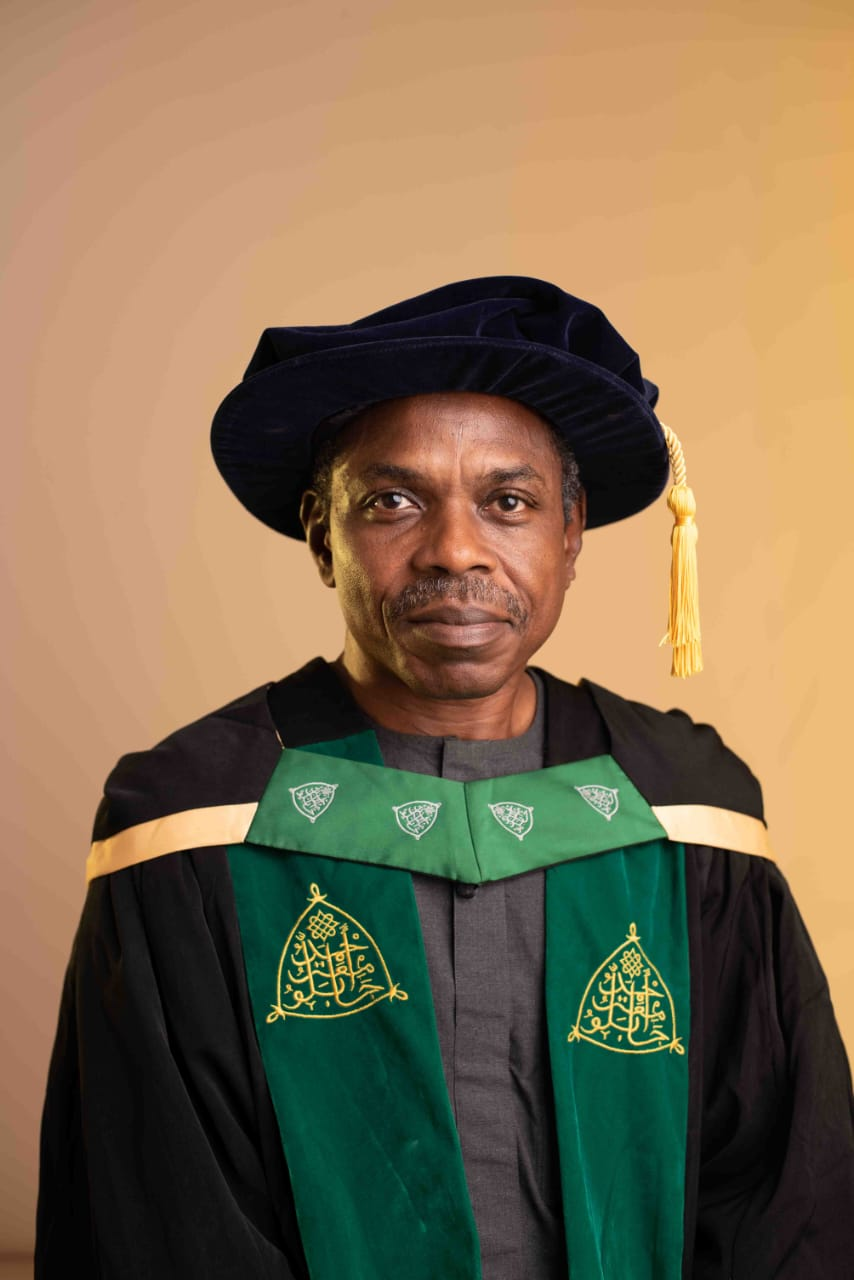
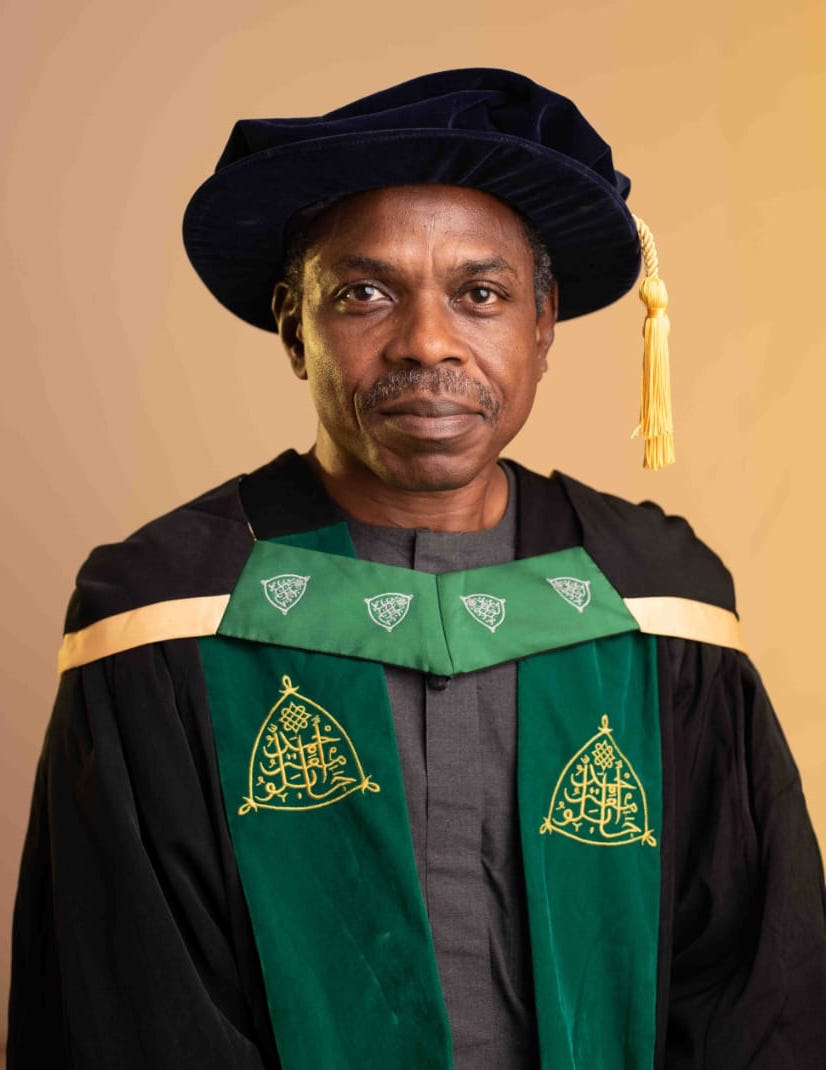
feat(home): bring the impact band and mobile hero photographs forward
- Impact band: ease the flat wash from 90% to 80% so the photograph reads more
  clearly. The left-hand pass still deepens the side the type sits on, keeping
  it near 92% covered.
- Hero ground: raise campus.png to 24% below `lg`, where the section carries no
  collage and this is its only photograph. Desktop keeps the original 14% so the
  image stays behind the cluster.
- Update the Director's portrait.

diff --git a/src/components/home/impact-band.tsx b/src/components/home/impact-band.tsx
@@ -23,10 +23,10 @@ export const ImpactBand = () => (
         sizes="100vw"
         className="img-drift object-cover object-[center_40%]"
       />
-      {/* Flat 90% wash holds the whole band at an even darkness — the
-          photograph stays perceptible but never competes. A second pass
-          deepens the left, where the type sits. */}
-      <div className="absolute inset-0 bg-brand-900/90" />
+      {/* Flat 80% wash holds the whole band at an even darkness — the
+          photograph reads clearly but never competes. A second pass deepens
+          the left, where the type sits, keeping that side near 92% covered. */}
+      <div className="absolute inset-0 bg-brand-900/80" />
       <div className="absolute inset-0 bg-gradient-to-r from-brand-900/60 via-transparent to-transparent" />
       <div
         className="absolute inset-0 opacity-[0.05]"

diff --git a/src/components/home/masthead.tsx b/src/components/home/masthead.tsx
@@ -64,7 +64,10 @@ export const Masthead = () => (
         alt=""
         fill
         sizes="100vw"
-        className="img-drift object-cover opacity-[0.14]"
+        // Brought forward on phones and tablets, where the hero carries no
+        // collage and this is the only photograph in the section. Desktop keeps
+        // the original 14% so it stays behind the cluster.
+        className="img-drift object-cover opacity-[0.24] lg:opacity-[0.14]"
       />
       <div className="absolute inset-0 bg-gradient-to-r from-brand-900 via-brand-900/80 to-brand-900/40" />
       <div
